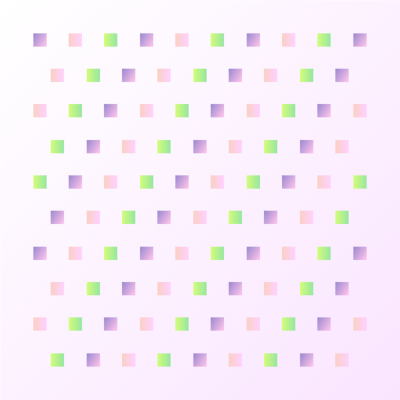
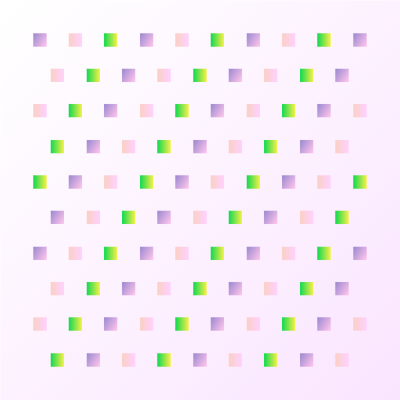
update layouts maxvalue in config when entered a bigger one in the number input

diff --git a/reducer.ts b/reducer.ts
@@ -14,7 +14,8 @@ import {
   deselectObject,
   selectLayout,
   addEmojiObject,
-  overrideState
+  overrideState,
+  setLayoutMaxValueOverride
 } from "./actions";
 import { FillType } from "./types";
 import layouts from "./layouts";
@@ -33,6 +34,7 @@ export const initState: AppState = {
   },
   configValues: getDefaultConfigValues(selectedLayoutId),
   selectedLayoutId,
+  layoutMaxValuesOverrides: {},
   selectedObjectIds: [3],
   uploadedObjects: [],
   currentRandomSnapshot: Math.random()
@@ -47,6 +49,18 @@ const reducer = handleActions<AppState, any>(
       ...state,
       ...action.payload.newState
     }),
+    [setLayoutMaxValueOverride.toString()]: (
+      state,
+      action: ReturnType<typeof setLayoutMaxValueOverride>
+    ) => {
+      const newLayoutMaxValuesOverrides = { ...state.layoutMaxValuesOverrides };
+      newLayoutMaxValuesOverrides[action.payload.configFieldName] =
+        action.payload.configValue;
+      return {
+        ...state,
+        layoutMaxValuesOverrides: newLayoutMaxValuesOverrides
+      };
+    },
     [setCanvasDimensions.toString()]: (
       state,
       action: ReturnType<typeof setCanvasDimensions>

diff --git a/saga.ts b/saga.ts
@@ -1,9 +1,14 @@
 /* global fetch */
 
-import { all, select, takeLatest } from "redux-saga/effects";
+import { all, select, put, takeLatest } from "redux-saga/effects";
 import es6promise from "es6-promise";
 import "isomorphic-unfetch";
-import { dumpState } from "./actions";
+import {
+  dumpState,
+  setConfigValue,
+  setLayoutMaxValueOverride
+} from "./actions";
+import { getSelectedLayout, getConfigField } from "./selectors";
 import { AppState } from "./types/store";
 import { copyToClipboard } from "./utils";
 
@@ -33,8 +38,21 @@ function* dumpStateSaga() {
   console.log("dumped to clipboard");
 }
 
+function* setConfigValueSaga(action) {
+  const { configFieldName, configValue } = action.payload;
+
+  const configField = yield select(getConfigField(configFieldName));
+
+  if (configField && configField.maxValue < configValue) {
+    yield put(setLayoutMaxValueOverride({ configFieldName, configValue }));
+  }
+}
+
 function* rootSaga() {
-  yield all([takeLatest(dumpState, dumpStateSaga)]);
+  yield all([
+    takeLatest(dumpState, dumpStateSaga),
+    takeLatest(setConfigValue, setConfigValueSaga)
+  ]);
 }
 
 export default rootSaga;

diff --git a/components/ColorInput/ColorInput.tsx b/components/ColorInput/ColorInput.tsx
@@ -127,7 +127,7 @@ export const ColorInput: React.FC<Props> = ({ color, className, setColor }) => {
               />
             )}
             {!isSelectingFromPredefined && (
-              <Form layout="vertical">
+              <Form layout="vertical" className={s["form"]}>
                 {color.type === FillType.Linear && (
                   <Form.Item label="Angle" className={s["form-item"]}>
                     <Slider
@@ -171,7 +171,7 @@ export const ColorInput: React.FC<Props> = ({ color, className, setColor }) => {
             )}
             <div className={s["predefined-colors"]}>
               {getPredefinedColors()
-                .slice(0, isSelectingFromPredefined ? 25 : 4)
+                .slice(0, isSelectingFromPredefined ? undefined : 4)
                 .map((color, index) => (
                   <div
                     key={index}

diff --git a/selectors.ts b/selectors.ts
@@ -8,10 +8,19 @@ export const getConfigValue = configField => (state: AppState) =>
 export const getConfigFields = (state: AppState) =>
   getSelectedLayout(state).configFields || [];
 
-export const getConfigField = configFieldName => (state: AppState) =>
-  getConfigFields(state).find(
+export const getConfigField = configFieldName => (state: AppState) => {
+  let configField = getConfigFields(state).find(
     configField => configField.name === configFieldName
   );
+  const layoutMaxValuesOverrides = state.layoutMaxValuesOverrides;
+  if (layoutMaxValuesOverrides[configFieldName]) {
+    configField = {
+      ...configField,
+      maxValue: layoutMaxValuesOverrides[configFieldName]
+    };
+  }
+  return configField;
+};
 
 export const getSelectedLayout = (state: AppState) =>
   layouts.find(layout => layout.id === state.selectedLayoutId);

diff --git a/pages/explore.tsx b/pages/explore.tsx
@@ -25,8 +25,9 @@ export const Explore: React.FC<Props> = props => {
             </Button>
           </Header>
           <div className={s["grid"]}>
-            {backgrounds.map(background => (
+            {backgrounds.map((background, index) => (
               <Card
+                key={index}
                 hoverable
                 cover={<img src={`/background_thumbs/${background.id}.png`} />}
                 className={s["card"]}

diff --git a/actions.ts b/actions.ts
@@ -37,6 +37,11 @@ export const setConfigValue = createAction<{
   configValue: any;
 }>("SET_CONFIG_VALUE");
 
+export const setLayoutMaxValueOverride = createAction<{
+  configFieldName: string;
+  configValue: any;
+}>("SET_LAYOUT_MAX_VALUE_OVERRIDE");
+
 export const addUploadedObject = createAction<{ src: string; type: string }>(
   "ADD_UPLOADED_OBJECT"
 );

diff --git a/backgrounds/index.ts b/backgrounds/index.ts
@@ -18,7 +18,7 @@ export default [
       objectColors: [
         { type: "linear", values: ["#A18CD1", "#FBC2EB"], angle: 27 },
         { type: "linear", values: ["#FAD0C4", "#FFD1FF"], angle: 0 },
-        { type: "linear", values: ["#D4FC79", "#96E6A1"], angle: 0 }
+        { type: "linear", values: ["#0fd850", "#f9f047"], angle: 0 }
       ]
     }
   },

diff --git a/types/store.ts b/types/store.ts
@@ -10,6 +10,7 @@ export interface AppState {
   configValues: any;
   currentRandomSnapshot: number;
   selectedLayoutId: number;
+  layoutMaxValuesOverrides: any;
   selectedObjectIds: number[];
   uploadedObjects: ImageObject[];
 }

diff --git a/palettes/index.ts b/palettes/index.ts
@@ -75,7 +75,5 @@ export const gradientPalettes = [
   ["#b8adfe", "#676bc2"],
   ["#f6d365", "#fda085"],
   ["#41295a", "#2f0743"],
-  ["#aff77e", "#89d405"],
-  ["#d57eeb", "#fccb90"],
   ["#c95c46", "#511414"]
 ];

diff --git a/components/ColorInput/ColorInput.less b/components/ColorInput/ColorInput.less
@@ -2,6 +2,11 @@
   position: relative;
 }
 
+.form,
+.radio-group {
+  user-select: none;
+}
+
 .color {
   border-radius: 4px;
   margin-left: 0;
